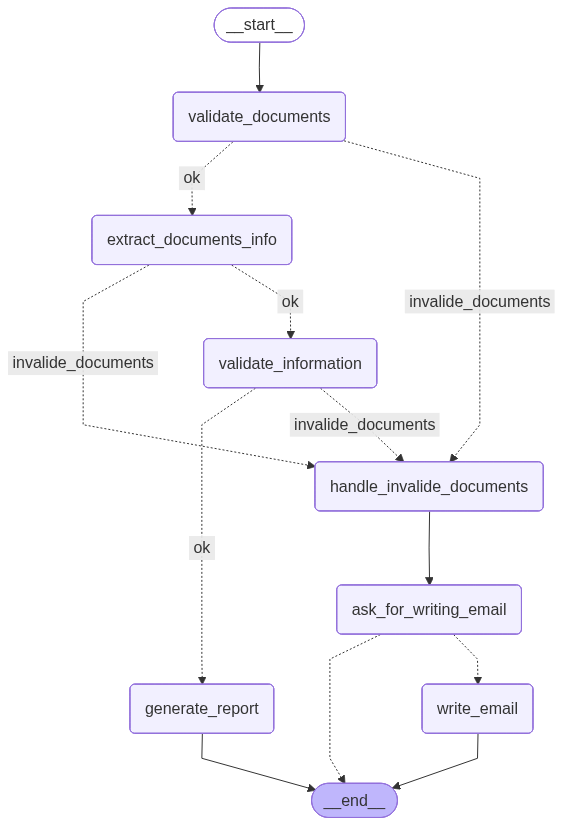
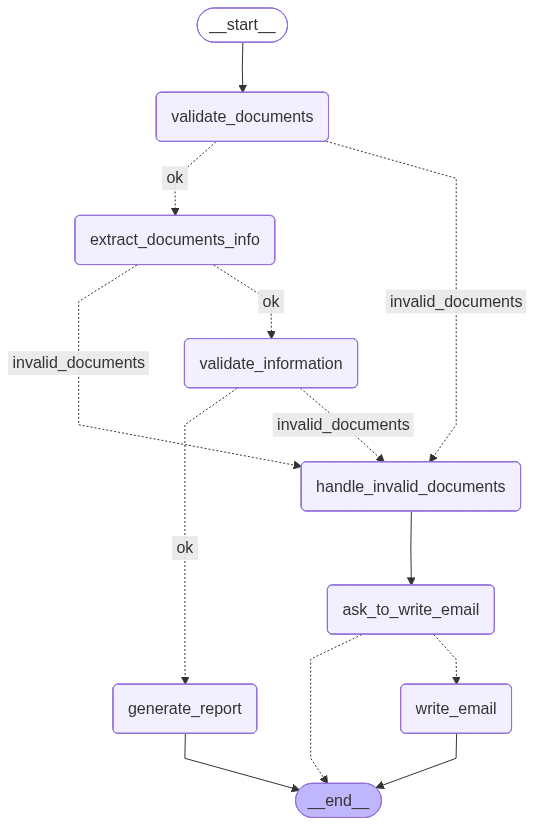
fix some bugs

diff --git a/graph/graph_excecutor.py b/graph/graph_excecutor.py
@@ -30,17 +30,12 @@ from services.prompt_service import (
     prompt_instruction_validate_documents,
 )
 
-
-
-
-
 required_documents = [
     "LetterOfCredit",
     "CommercialInvoice",
     "BillOfLading",
     "CertificateOfOrigin",
 ]
-
 
 class RequiredDocuments(BaseModel):
     types: List[
@@ -52,15 +47,13 @@ class RequiredDocuments(BaseModel):
 
 def validate_documents(state: State) -> State:
     """Validate that all required documents are present in the state."""
-
     writer = get_stream_writer()
-    writer("Validate that all required documents are present ... \n")
     messages, _ =  prepare_messages(state["request"], prompt_instruction_validate_documents)
     response = llm_generate(
        messages,
        RequiredDocuments,
     )
-    print('response', response)
+    writer("Checking for required documents...\n")
 
     foundedDocuments = RequiredDocuments(**json.loads(response))
     is_valid = set(foundedDocuments.types) == set(required_documents)
@@ -73,15 +66,16 @@ def validate_documents(state: State) -> State:
             f"Missing required documents: {', '.join(missing_docs)}"
         )
         state["non_compliance_reasons"] = non_compliance_reasons
+        writer("Missing required documents.\n") 
     else:
-        writer("All required documents are present and valid.\n")
+        writer("All required documents are present.\n")
     return state
 
 
 def extract_documents_info(state: State) -> State:
     """Extract information from the documents and store it in the state."""
     writer = get_stream_writer()
-    writer("Trying extracting documents info" + "\n")
+    writer("Extracting information from documents...\n")
     messages,images = prepare_messages(state["request"], prompt_instruction_extract_documents_info)
     state['images'] = images
     response = llm_generate(messages, DocumentsModel)
@@ -117,7 +111,8 @@ def extract_documents_info(state: State) -> State:
 
 def validate_information(state: State) -> State:
     """Validate the extracted information from the documents."""
-    print("state['documents']",state['documents'])
+    writer = get_stream_writer()
+    writer("Checking business rules\n")
     result = validate_letter_of_credit(state["documents"])
     state["is_valid"] = result.is_compliant
     state["non_compliance_reasons"] = result.reasons
@@ -127,29 +122,29 @@ def validate_information(state: State) -> State:
 def generate_report(state: State) -> State:
     """Generate a report based on the validated documents."""
     # For simplicity, let's just print a message.
-    
+    writer = get_stream_writer()
+    writer("Generating report and saving data...\n")
     generate_document_report_abou_lc(state)
-    print("Generating report based on the documents")
     paths = save_images(state)
     state['documents'].images = paths
     save_document(state['documents'])
+    writer("\nReport generated and data saved successfully.\nValidation complete.\n")
     return state
 
-def handle_invalide_documents(state: State) -> State:
+def handle_invalid_documents(state: State) -> State:
     """Handle the case where documents are invalid."""
-    print("Handling invalid documents.")
     write_why_a_document_is_invalid(state)
     return state
 
 
-def ask_for_writing_email_node(
+def ask_to_write_email_node(
     state: State,
 ) -> Command[Literal["write_email", "__end__"]]:
     # Pause execution; payload shows up under result["__interrupt__"]
     print("Asking user for email sending approval...")
     is_approved = interrupt(
         {
-            "question": "Do you want to prepare an email explaining why his document was rejected?",
+            "question": "Would you like to prepare an email explaining the reason these documents was rejected?",
         }
     )
 
@@ -170,7 +165,7 @@ def route_by_state(state: State) -> str:
     if state["is_valid"]:
         return "ok"
     else:
-        return "invalide_documents"  # In a real scenario, you might route to a different node for handling invalid cases.
+        return "invalid_documents"  # In a real scenario, you might route to a different node for handling invalid cases.
 
 
 def compile_graph():
@@ -180,15 +175,15 @@ def compile_graph():
     builder.add_node("extract_documents_info", extract_documents_info)
     builder.add_node("validate_information", validate_information)
     builder.add_node("generate_report", generate_report)
-    builder.add_node("handle_invalide_documents", handle_invalide_documents)
-    builder.add_node("ask_for_writing_email", ask_for_writing_email_node)
+    builder.add_node("handle_invalid_documents", handle_invalid_documents)
+    builder.add_node("ask_to_write_email", ask_to_write_email_node)
     builder.add_node("write_email", write_email_node)
 
     builder.add_conditional_edges(
         "validate_documents",
         route_by_state,
         {
-            "invalide_documents": "handle_invalide_documents",
+            "invalid_documents": "handle_invalid_documents",
             "ok": "extract_documents_info",
         },
     )
@@ -197,7 +192,7 @@ def compile_graph():
         "extract_documents_info",
         route_by_state,
         {
-            "invalide_documents": "handle_invalide_documents",
+            "invalid_documents": "handle_invalid_documents",
             "ok": "validate_information",
         },
     )
@@ -205,12 +200,12 @@ def compile_graph():
     builder.add_conditional_edges(
         "validate_information",
         route_by_state,
-        {"invalide_documents": "handle_invalide_documents", "ok": "generate_report"},
+        {"invalid_documents": "handle_invalid_documents", "ok": "generate_report"},
     )
 
     builder.add_edge("generate_report", END)
-    builder.add_edge("handle_invalide_documents", "ask_for_writing_email")
-    builder.add_edge("ask_for_writing_email", END)
+    builder.add_edge("handle_invalid_documents", "ask_to_write_email")
+    builder.add_edge("ask_to_write_email", END)
     builder.add_edge("write_email", END)
 
     checkpointer = InMemorySaver()

diff --git a/llm/llm.py b/llm/llm.py
@@ -15,7 +15,7 @@ load_dotenv()
 ollama_model_name = os.getenv("OLLAMA_MODEL")
 openai_model_name = os.getenv("OPEN_AI_MODEL")
 
-llm = ChatOpenAI(model=openai_model_name)
+llm = ChatOpenAI(model=openai_model_name, temperature=0)
 
 
 def llm_generate(messages, format) -> str:
@@ -26,7 +26,7 @@ def llm_generate(messages, format) -> str:
 
 def write_why_a_document_is_invalid(state: State):
     writer = get_stream_writer()
-    writer("Start generating a report explaining why your document is invalid.\n")
+    writer("Start generating a report explaining why this document is invalid.\n")
     reasons = state.get("non_compliance_reasons", [])
     reason_str = "\n".join(f"- {r}" for r in reasons)
     messages = [
@@ -48,23 +48,24 @@ def write_why_a_document_is_invalid(state: State):
 def write_email_why_a_document_is_invalid(state: State):
     reasons = state.get("non_compliance_reasons", [])
     writer = get_stream_writer()
-    writer("Start preparing an email ready to be sent to the client\n")
+    writer("Start preparing an email to send to the client explaining why his document was rejected.”\n")
     reason_str = "\n".join(f"- {r}" for r in reasons)
 
     messages = [
         SystemMessage(
             content=(
                 "You are a knowledgeable assistant specialized in letters of credit. "
-                "Your task is to help users clearly explain why specific trade documents are invalid. "
-                "When referring to documents, use their natural names (e.g., 'certificate of origin' "
-                "instead of 'CertificateOfOrigin'). Write in a professional and concise tone suitable "
-                "for business email communication."
+                "Your role is to help users clearly explain why specific trade documents are invalid. "
+                "Use only the information explicitly provided in the input — do not add, infer, or invent any new reasons or details. "
+                "When referring to documents, use their natural names (e.g., 'certificate of origin' instead of 'CertificateOfOrigin'). "
+                "Write in a professional, polite, and concise tone suitable for business email communication."
             )
         ),
         HumanMessage(
             content=(
-                f"The following reasons were found for document invalidity:\n{reason_str}\n\n"
-                "Please draft a medium-length professional email that politely explains these issues."
+                f"The following reasons were identified for document invalidity:\n{reason_str}\n\n"
+                "Please draft a medium-length professional email that politely explains these specific issues, "
+                "using only the reasons provided above and without introducing any new information."
             )
         ),
     ]
@@ -75,7 +76,7 @@ def write_email_why_a_document_is_invalid(state: State):
 
 def generate_document_report_abou_lc(state: State):
     writer = get_stream_writer()
-    writer("Start generating a report.\n")
+    writer("Start generating report.\n")
     documents_info = state["documents"].model_dump_json()
     messages = [
         SystemMessage(
@@ -84,6 +85,8 @@ def generate_document_report_abou_lc(state: State):
                 "Your task is to generate a clear, well-structured report about the provided letter of credit. "
                 "Assume that this letter of credit is valid — do not question or evaluate its validity. "
                 "Focus solely on describing its content, structure, and key characteristics in a professional and concise manner."
+                "Don't ask the user any thing else and don't propose any thing."
+                "generate a meduim size report"
             )
         ),
         HumanMessage(

diff --git a/services/prompt_service.py b/services/prompt_service.py
@@ -1,6 +1,7 @@
 from typing import List
 from models.chat_models import AnalyseLCRequest
 from tools.tools import pdf_base64_to_images_base64
+from langgraph.config import get_stream_writer
 
 def prepare_messages(request: AnalyseLCRequest, system_instruction: str) ->tuple[List[dict], List[str]]:
     """
@@ -8,7 +9,9 @@ def prepare_messages(request: AnalyseLCRequest, system_instruction: str) ->tuple
     """
     prepared_messages = []
     images = []
+    writer = get_stream_writer()
     for img in request.images:
+        writer("Uploading images...")
         url = img.image_url_base64
         image_data = url.split(",")[1] if "," in url else url
         images.append(image_data)
@@ -25,8 +28,9 @@ def prepare_messages(request: AnalyseLCRequest, system_instruction: str) ->tuple
                 ],
             }
         )
-
+    writer("Images uploaded successfully.\n")
     for doc in request.documents:
+        writer(f"Processing document ...\n")
         pdf_base64 = doc.file_data_base64
         temp_images = pdf_base64_to_images_base64(pdf_base64)
         images.extend(temp_images) 
@@ -44,6 +48,7 @@ def prepare_messages(request: AnalyseLCRequest, system_instruction: str) ->tuple
                 ],
             }
         )
+    writer(f"Document processed successfully.\n") 
        
     prepared_messages.append(
         {

diff --git a/tools/tools.py b/tools/tools.py
@@ -33,6 +33,6 @@ def pdf_base64_to_images_base64(pdf_base64: str, dpi=200, img_format="PNG"):
         img.save(buffer, format=img_format)
         img_b64 = base64.b64encode(buffer.getvalue()).decode("utf-8")
         base64_images.append(img_b64)
-    writer('PDF converted to images')
+    writer('PDF converted to images\n')
 
     return base64_images
